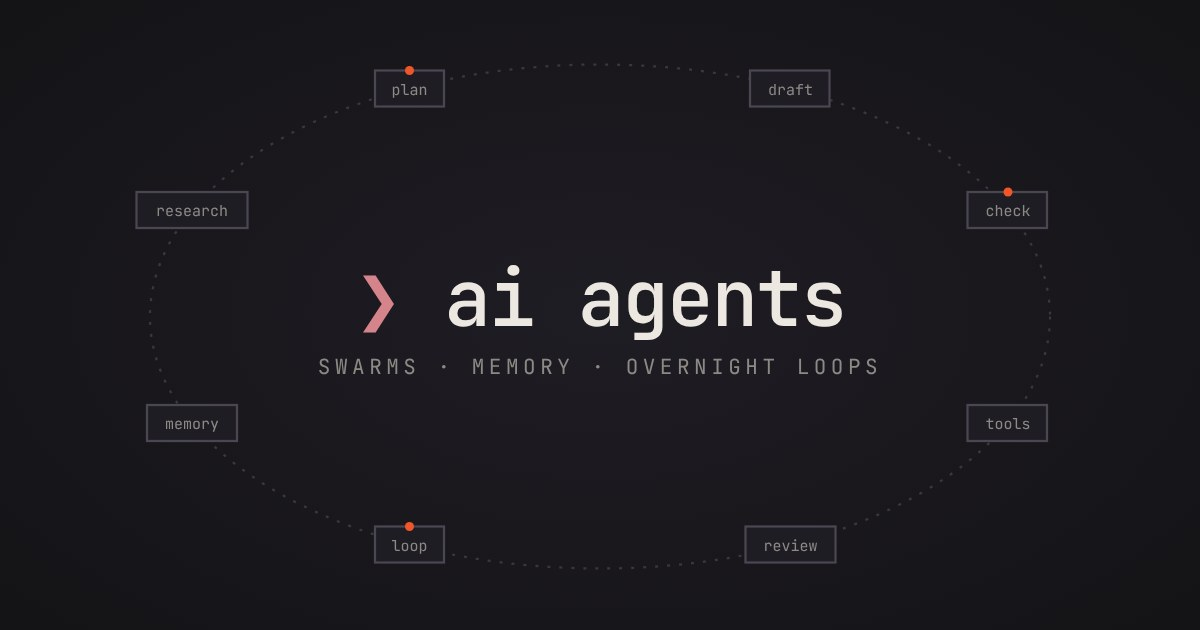
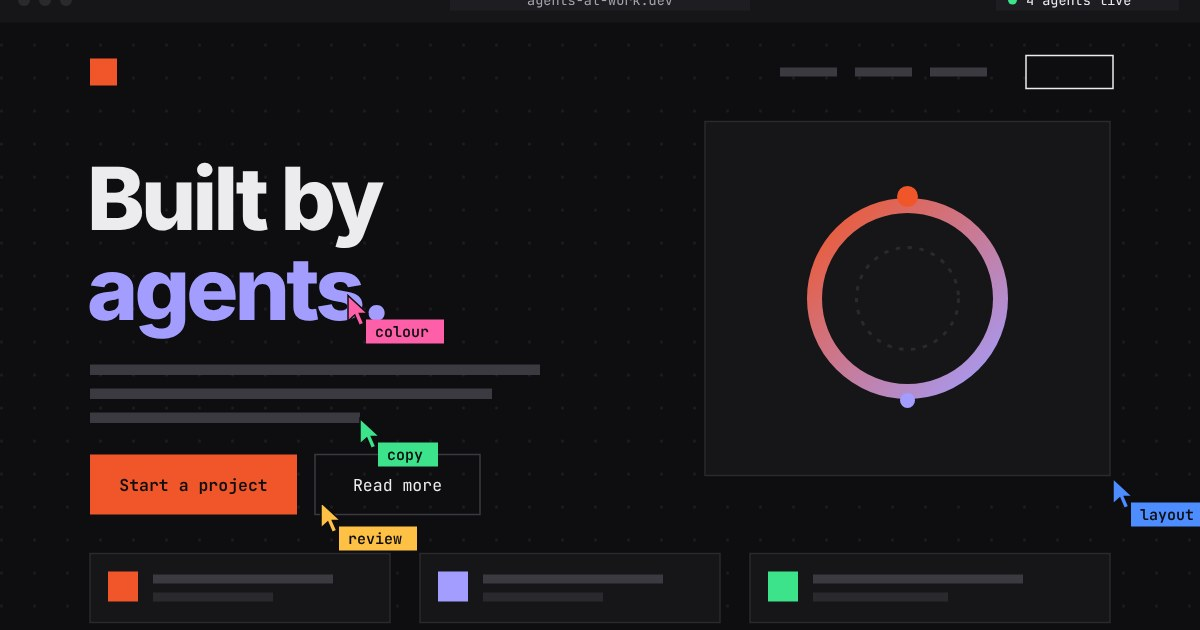
Thumbnails: Halvia heart only; AI agents tile becomes an agent swarm animation
- Halvia tile: remove the "halvia" wordmark and tagline; the pixel heart sits
  small and centred
- AI agents tile: four named cursors (layout, colour, copy, review) build a
  small website on a 14 s loop: select, type, recolour, resize and add cards.
  Pure SVG and CSS, no video file; people who turn off motion see the
  finished site
- og/agents.jpg regenerated from the new tile

Claude-Session: https://claude.ai/code/session_01HN9mNrF19oo88FNATmVzzN

diff --git a/index.html b/index.html
@@ -229,12 +229,45 @@ figure.piece.blankslot .frame{background:#000;border:1px solid rgba(255,255,255,
 @keyframes vxdraw{to{stroke-dashoffset:0}}
 .featured-top{grid-template-columns:minmax(0,1fr)}
 figure.piece.wide .frame.hframe{background:#141316}
-.hframe .hlogo{position:absolute;right:1rem;bottom:1rem;width:37px;height:32px;pointer-events:none}
+.hframe .hlogo{position:absolute;left:50%;top:50%;transform:translate(-50%,-50%);width:74px;height:64px;pointer-events:none}
 #work{padding-top:clamp(1.25rem,3vw,2rem)}
 .hero.tight{padding-block:clamp(2.5rem,6vw,4.5rem) clamp(.5rem,2vw,1rem)}
 .hero.tight h1.display{font-size:clamp(2.2rem,5.6vw,4.6rem);max-width:20ch;line-height:1}
 .hero.tight .lede{margin-top:clamp(.9rem,2vw,1.3rem);font-size:clamp(1rem,1.5vw,1.2rem)}
 @keyframes xblink{50%{opacity:0}}
+/* AI agents tile: a swarm of named cursors building a small website on a 14 s loop.
+   The resting state is the finished site, which is what people who turn off motion see. */
+.agswarm .ags-cur,.agswarm .ags-sel,.agswarm .ags-type,.agswarm .ags-hero,.agswarm .ags-handles,.agswarm .ags-card,.agswarm .ags-ok,.agswarm .ags-pal,.agswarm .ags-h2,.agswarm .ags-btn{animation:14s ease-in-out infinite}
+.agswarm .ags-hero,.agswarm .ags-type,.agswarm .ags-sel{transform-box:fill-box;transform-origin:0 0}
+.agswarm .ags-orbit{transform-box:view-box;transform-origin:605px 214px;animation:agorbit 6s linear infinite}
+.agswarm .ags-live{animation:xblink 1.6s steps(1) infinite}
+.agswarm .ags-sel,.agswarm .ags-handles,.agswarm .ags-ok,.agswarm .ags-pal{opacity:0}
+.agswarm .ags-layout{transform:translate(742px,334px);animation-name:agLayout}
+.agswarm .ags-colour{transform:translate(232px,212px);animation-name:agColour}
+.agswarm .ags-copy{transform:translate(240px,294px);animation-name:agCopy}
+.agswarm .ags-review{transform:translate(214px,350px);animation-name:agReview}
+.agswarm .ags-sel{animation-name:agSel}.agswarm .ags-type{animation-name:agType}.agswarm .ags-hero{animation-name:agHero}
+.agswarm .ags-handles{animation-name:agHandles}.agswarm .ags-ok{animation-name:agOk}.agswarm .ags-pal{animation-name:agPal}
+.agswarm .ags-h2{animation-name:agH2}.agswarm .ags-btn{animation-name:agBtn}
+.agswarm .ags-c1{animation-name:agC1}.agswarm .ags-c2{animation-name:agC2}.agswarm .ags-c3{animation-name:agC3}
+@keyframes agorbit{to{transform:rotate(360deg)}}
+@keyframes agLayout{0%,100%{transform:translate(760px,72px)}10%,12%{transform:translate(692px,290px)}28%,34%{transform:translate(740px,332px)}44%{transform:translate(160px,398px)}52%{transform:translate(380px,398px)}60%,70%{transform:translate(620px,398px)}85%{transform:translate(700px,200px)}}
+@keyframes agColour{0%,100%{transform:translate(420px,424px)}12%,22%{transform:translate(150px,338px)}30%,44%{transform:translate(232px,212px)}56%{transform:translate(340px,70px)}70%{transform:translate(560px,150px)}85%{transform:translate(500px,424px)}}
+@keyframes agCopy{0%,100%{transform:translate(36px,120px)}6%{transform:translate(52px,120px)}14%,18%{transform:translate(350px,240px)}26%,40%{transform:translate(240px,294px)}55%{transform:translate(300px,62px)}70%{transform:translate(110px,64px)}85%{transform:translate(60px,100px)}}
+@keyframes agReview{0%,100%{transform:translate(560px,44px)}15%{transform:translate(640px,66px)}30%{transform:translate(600px,200px)}50%,64%{transform:translate(214px,350px)}78%{transform:translate(380px,250px)}}
+@keyframes agSel{0%,5%{opacity:0;transform:scale(.05)}6%{opacity:1;transform:scale(.05)}14%{opacity:1;transform:scale(1)}22%{opacity:1;transform:scale(1)}26%,100%{opacity:0;transform:scale(1)}}
+@keyframes agType{0%,18%{transform:scaleX(.12)}26%,88%{transform:scaleX(1)}96%,100%{transform:scaleX(.12)}}
+@keyframes agHero{0%,12%{transform:scale(.82)}28%,88%{transform:scale(1)}96%,100%{transform:scale(.82)}}
+@keyframes agHandles{0%,8%{opacity:0}10%,30%{opacity:1}34%,100%{opacity:0}}
+@keyframes agPal{0%,12%{opacity:0}14%,20%{opacity:1}23%,100%{opacity:0}}
+@keyframes agBtn{0%,16%{fill:#ECECEE}19%,88%{fill:#F0562A}94%,100%{fill:#ECECEE}}
+@keyframes agH2{0%,38%{fill:#ECECEE}42%,88%{fill:#A29DFF}94%,100%{fill:#ECECEE}}
+@keyframes agOk{0%,54%{opacity:0}57%,66%{opacity:1}70%,100%{opacity:0}}
+@keyframes agC1{0%,44%{opacity:0;transform:translateY(12px)}48%,88%{opacity:1;transform:none}93%,100%{opacity:0;transform:translateY(12px)}}
+@keyframes agC2{0%,51%{opacity:0;transform:translateY(12px)}55%,88%{opacity:1;transform:none}93%,100%{opacity:0;transform:translateY(12px)}}
+@keyframes agC3{0%,58%{opacity:0;transform:translateY(12px)}62%,88%{opacity:1;transform:none}93%,100%{opacity:0;transform:translateY(12px)}}
+@media (prefers-reduced-motion:reduce){.agswarm *{animation:none!important}}
+
 </style>
 </head>
 <body>
@@ -268,10 +301,6 @@ figure.piece.wide .frame.hframe{background:#141316}
               <svg class="xthumb hthumb" aria-hidden="true" focusable="false" viewBox="0 0 800 450" preserveAspectRatio="xMidYMid meet" xmlns="http://www.w3.org/2000/svg">
                 <defs><radialGradient id="hglow" cx="50%" cy="50%" r="65%"><stop offset="0" stop-color="#1f1d24"/><stop offset="1" stop-color="#141316"/></radialGradient></defs>
                 <rect width="800" height="450" fill="url(#hglow)"/>
-                <g font-family="'JetBrains Mono',ui-monospace,Menlo,Consolas,monospace" text-anchor="middle">
-                  <text x="400" y="230" font-size="52" font-weight="500" fill="#ECE8E1" letter-spacing="-1.5"><tspan fill="#D4848A">&#10095;</tspan> halvia</text>
-                  <text x="400" y="262" font-size="14" fill="#8d8a86" letter-spacing="3">AI SYSTEMS FOR HEALTHCARE</text>
-                </g>
               </svg>
               <svg class="hlogo" aria-hidden="true" focusable="false" viewBox="0 0 37 32" shape-rendering="crispEdges" color="#ECE8E1" xmlns="http://www.w3.org/2000/svg"><path fill="currentColor" d="M5 0h10v1h-10zM23 0h10v1h-10zM3 2h4v1h-4zM15 2h2v1h-2zM21 2h2v1h-2zM33 2h2v1h-2zM1 4h5v1h-5zM16 4h2v1h-2zM20 4h2v1h-2zM35 4h2v1h-2zM1 6h9v1h-9zM35 6h2v1h-2zM1 8h9v1h-9zM35 8h2v1h-2zM1 10h9v1h-9zM35 10h2v1h-2zM2 12h9v1h-9zM34 12h2v1h-2zM3 14h9v1h-9zM33 14h2v1h-2zM5 16h8v1h-8zM31 16h2v1h-2zM7 18h7v1h-7zM29 18h2v1h-2zM9 20h6v1h-6zM27 20h2v1h-2zM11 22h5v1h-5zM25 22h2v1h-2zM13 24h3v1h-3zM23 24h2v1h-2zM17 26h6v1h-6zM16 27h2v1h-2zM19 28h4v1h-4zM25 28h2v1h-2zM29 28h2v1h-2zM18 29h2v1h-2zM21 30h2v1h-2zM25 30h2v1h-2zM20 31h2v1h-2z"/><path fill="#4038FF" d="M18 10h1v1h-1zM17 11h1v1h-1zM19 11h1v1h-1zM17 12h1v1h-1zM19 12h1v1h-1zM17 13h1v1h-1zM19 13h1v1h-1zM19 14h1v1h-1zM19 15h1v1h-1zM19 16h1v1h-1zM16 24h2v1h-2z"/><path fill="#FF2BE0" d="M13 14h4v1h-4z"/><path fill="#2BF05A" d="M23 14h5v1h-5zM22 15h1v1h-1zM21 16h1v1h-1zM20 17h1v1h-1zM20 24h2v1h-2z"/><path fill="#FF3A3A" d="M18 24h2v1h-2z"/></svg>
               <span class="framecta">Try the tools</span>
@@ -338,21 +367,43 @@ figure.piece.wide .frame.hframe{background:#141316}
         <figure class="piece wide hpiece">
           <div class="frame hframe">
             <a class="framelink" href="agents.html" aria-label="AI agents — read how I set up agent swarms, memory and overnight loops">
-              <svg class="xthumb" aria-hidden="true" focusable="false" viewBox="0 0 800 450" preserveAspectRatio="xMidYMid meet" xmlns="http://www.w3.org/2000/svg">
-                <defs><radialGradient id="agglow" cx="50%" cy="50%" r="65%"><stop offset="0" stop-color="#1f1d24"/><stop offset="1" stop-color="#141316"/></radialGradient></defs>
-                <rect width="800" height="450" fill="url(#agglow)"/>
-                <ellipse cx="400" cy="226" rx="300" ry="168" fill="none" stroke="#3a3740" stroke-width="1.5" stroke-dasharray="2 6"/>
-                <g fill="#1f1d24" stroke="#4a4652" stroke-width="1.5">
-                  <rect x="91" y="143" width="74" height="24"/><rect x="250" y="62" width="46" height="24"/><rect x="500" y="62" width="53" height="24"/><rect x="645" y="143" width="53" height="24"/><rect x="645" y="285" width="53" height="24"/><rect x="497" y="366" width="60" height="24"/><rect x="250" y="366" width="46" height="24"/><rect x="98" y="285" width="60" height="24"/>
+              <svg class="xthumb agswarm" aria-hidden="true" focusable="false" viewBox="0 0 800 450" preserveAspectRatio="xMidYMid meet" style="background:#0E0E10" xmlns="http://www.w3.org/2000/svg" font-family="'JetBrains Mono',ui-monospace,Menlo,Consolas,monospace">
+                <defs>
+                  <pattern id="agdots" width="22" height="22" patternUnits="userSpaceOnUse"><circle cx="1" cy="1" r="1" fill="#1d1d22"/></pattern>
+                  <linearGradient id="agring" x1="0" y1="0" x2="1" y2="1"><stop offset="0" stop-color="#F0562A"/><stop offset="1" stop-color="#A29DFF"/></linearGradient>
+                </defs>
+                <rect width="800" height="450" fill="#0E0E10"/><rect width="800" height="450" fill="url(#agdots)"/>
+                <rect width="800" height="30" fill="#161618"/>
+                <circle cx="16" cy="15" r="4" fill="#2A2A2E"/><circle cx="30" cy="15" r="4" fill="#2A2A2E"/><circle cx="44" cy="15" r="4" fill="#2A2A2E"/>
+                <rect x="300" y="8" width="200" height="14" fill="#1E1E22"/><text x="400" y="18.5" font-size="9" fill="#A3A3AA" text-anchor="middle">agents-at-work.dev</text>
+                <rect x="664" y="8" width="122" height="14" fill="#1E1E22"/><circle class="ags-live" cx="675" cy="15" r="3" fill="#3CE38A"/><text x="684" y="18.5" font-size="9" fill="#ECECEE">4 agents live</text>
+                <rect x="60" y="54" width="18" height="18" fill="#F0562A"/>
+                <rect x="520" y="60" width="38" height="6" fill="#3A3A40"/><rect x="570" y="60" width="38" height="6" fill="#3A3A40"/><rect x="620" y="60" width="38" height="6" fill="#3A3A40"/>
+                <rect x="684" y="52" width="58" height="22" fill="none" stroke="#ECECEE"/>
+                <g font-family="Figtree,system-ui,-apple-system,'Segoe UI',sans-serif" font-weight="800" font-size="58" letter-spacing="-2.5">
+                  <text x="58" y="168" fill="#ECECEE">Built by</text>
+                  <text class="ags-h2" x="58" y="228" fill="#A29DFF">agents.</text>
                 </g>
-                <g font-family="'JetBrains Mono',ui-monospace,Menlo,Consolas,monospace" font-size="10" fill="#8d8a86" text-anchor="middle">
-                  <text x="128" y="159">research</text><text x="273" y="78">plan</text><text x="527" y="78">draft</text><text x="672" y="159">check</text><text x="672" y="301">tools</text><text x="527" y="382">review</text><text x="273" y="382">loop</text><text x="128" y="301">memory</text>
+                <rect class="ags-sel" x="50" y="118" width="300" height="124" fill="rgba(60,227,138,.06)" stroke="#3CE38A" stroke-width="1.5" stroke-dasharray="5 4"/>
+                <rect x="60" y="258" width="300" height="7" fill="#3A3A40"/><rect x="60" y="274" width="268" height="7" fill="#3A3A40"/><rect class="ags-type" x="60" y="290" width="180" height="7" fill="#3A3A40"/>
+                <rect class="ags-btn" x="60" y="318" width="138" height="40" fill="#F0562A"/><text x="129" y="342" font-size="11" font-weight="600" fill="#0E0E10" text-anchor="middle">Start a project</text>
+                <rect x="210" y="318" width="110" height="40" fill="none" stroke="#3A3A40"/><text x="265" y="342" font-size="11" fill="#ECECEE" text-anchor="middle">Read more</text>
+                <g class="ags-pal"><rect x="150" y="364" width="74" height="24" fill="#1E1E22" stroke="#2A2A2E"/><rect x="156" y="370" width="12" height="12" fill="#ECECEE"/><rect x="174" y="370" width="12" height="12" fill="#F0562A"/><rect x="192" y="370" width="12" height="12" fill="#A29DFF"/><rect x="210" y="370" width="8" height="12" fill="#3CE38A"/></g>
+                <g class="ags-hero">
+                  <rect x="470" y="96" width="270" height="236" fill="#161618" stroke="#2A2A2E"/>
+                  <circle cx="605" cy="214" r="62" fill="none" stroke="url(#agring)" stroke-width="10"/>
+                  <circle cx="605" cy="214" r="34" fill="none" stroke="#2A2A2E" stroke-width="2" stroke-dasharray="3 5"/>
+                  <g class="ags-orbit"><circle cx="605" cy="146" r="7" fill="#F0562A"/><circle cx="605" cy="282" r="5" fill="#A29DFF"/></g>
+                  <g class="ags-handles"><rect x="470" y="96" width="270" height="236" fill="none" stroke="#4D8DFF" stroke-width="1.5"/><rect x="466" y="92" width="8" height="8" fill="#4D8DFF"/><rect x="736" y="92" width="8" height="8" fill="#4D8DFF"/><rect x="466" y="328" width="8" height="8" fill="#4D8DFF"/><rect x="736" y="328" width="8" height="8" fill="#4D8DFF"/></g>
                 </g>
-                <g class="vxdot" fill="#F0562A"><circle cx="273" cy="62" r="3"/><circle cx="672" cy="143" r="3"/><circle cx="273" cy="366" r="3"/></g>
-                <g font-family="'JetBrains Mono',ui-monospace,Menlo,Consolas,monospace" text-anchor="middle">
-                  <text x="400" y="232" font-size="52" font-weight="500" fill="#ECE8E1" letter-spacing="-1.5"><tspan fill="#D4848A">&#10095;</tspan> ai agents</text>
-                  <text x="400" y="264" font-size="14" fill="#8d8a86" letter-spacing="3">SWARMS &#183; MEMORY &#183; OVERNIGHT LOOPS</text>
-                </g>
+                <g class="ags-card ags-c1"><rect x="60" y="384" width="200" height="46" fill="#161618" stroke="#2A2A2E"/><rect x="72" y="396" width="20" height="20" fill="#F0562A"/><rect x="102" y="398" width="120" height="6" fill="#3A3A40"/><rect x="102" y="410" width="80" height="6" fill="#2A2A2E"/></g>
+                <g class="ags-card ags-c2"><rect x="280" y="384" width="200" height="46" fill="#161618" stroke="#2A2A2E"/><rect x="292" y="396" width="20" height="20" fill="#A29DFF"/><rect x="322" y="398" width="120" height="6" fill="#3A3A40"/><rect x="322" y="410" width="80" height="6" fill="#2A2A2E"/></g>
+                <g class="ags-card ags-c3"><rect x="500" y="384" width="240" height="46" fill="#161618" stroke="#2A2A2E"/><rect x="512" y="396" width="20" height="20" fill="#3CE38A"/><rect x="542" y="398" width="140" height="6" fill="#3A3A40"/><rect x="542" y="410" width="90" height="6" fill="#2A2A2E"/></g>
+                <g class="ags-ok"><rect x="230" y="296" width="96" height="20" fill="#FFC145"/><text x="238" y="310" font-size="10" font-weight="600" fill="#0E0E10">&#10003; looks good</text></g>
+                <g class="ags-cur ags-layout"><path d="M0 0L0 17L4.5 13L7.5 20L10.5 18.6L7.6 12L13 12Z" fill="#4D8DFF" stroke="#0E0E10" stroke-width="1"/><rect x="12" y="16" width="52" height="16" fill="#4D8DFF"/><text x="18" y="27.5" font-size="10" font-weight="600" fill="#0E0E10">layout</text></g>
+                <g class="ags-cur ags-colour"><path d="M0 0L0 17L4.5 13L7.5 20L10.5 18.6L7.6 12L13 12Z" fill="#FF5FA8" stroke="#0E0E10" stroke-width="1"/><rect x="12" y="16" width="52" height="16" fill="#FF5FA8"/><text x="18" y="27.5" font-size="10" font-weight="600" fill="#0E0E10">colour</text></g>
+                <g class="ags-cur ags-copy"><path d="M0 0L0 17L4.5 13L7.5 20L10.5 18.6L7.6 12L13 12Z" fill="#3CE38A" stroke="#0E0E10" stroke-width="1"/><rect x="12" y="16" width="40" height="16" fill="#3CE38A"/><text x="18" y="27.5" font-size="10" font-weight="600" fill="#0E0E10">copy</text></g>
+                <g class="ags-cur ags-review"><path d="M0 0L0 17L4.5 13L7.5 20L10.5 18.6L7.6 12L13 12Z" fill="#FFC145" stroke="#0E0E10" stroke-width="1"/><rect x="12" y="16" width="52" height="16" fill="#FFC145"/><text x="18" y="27.5" font-size="10" font-weight="600" fill="#0E0E10">review</text></g>
               </svg>
               <span class="framecta">Read the guide</span>
             </a>
